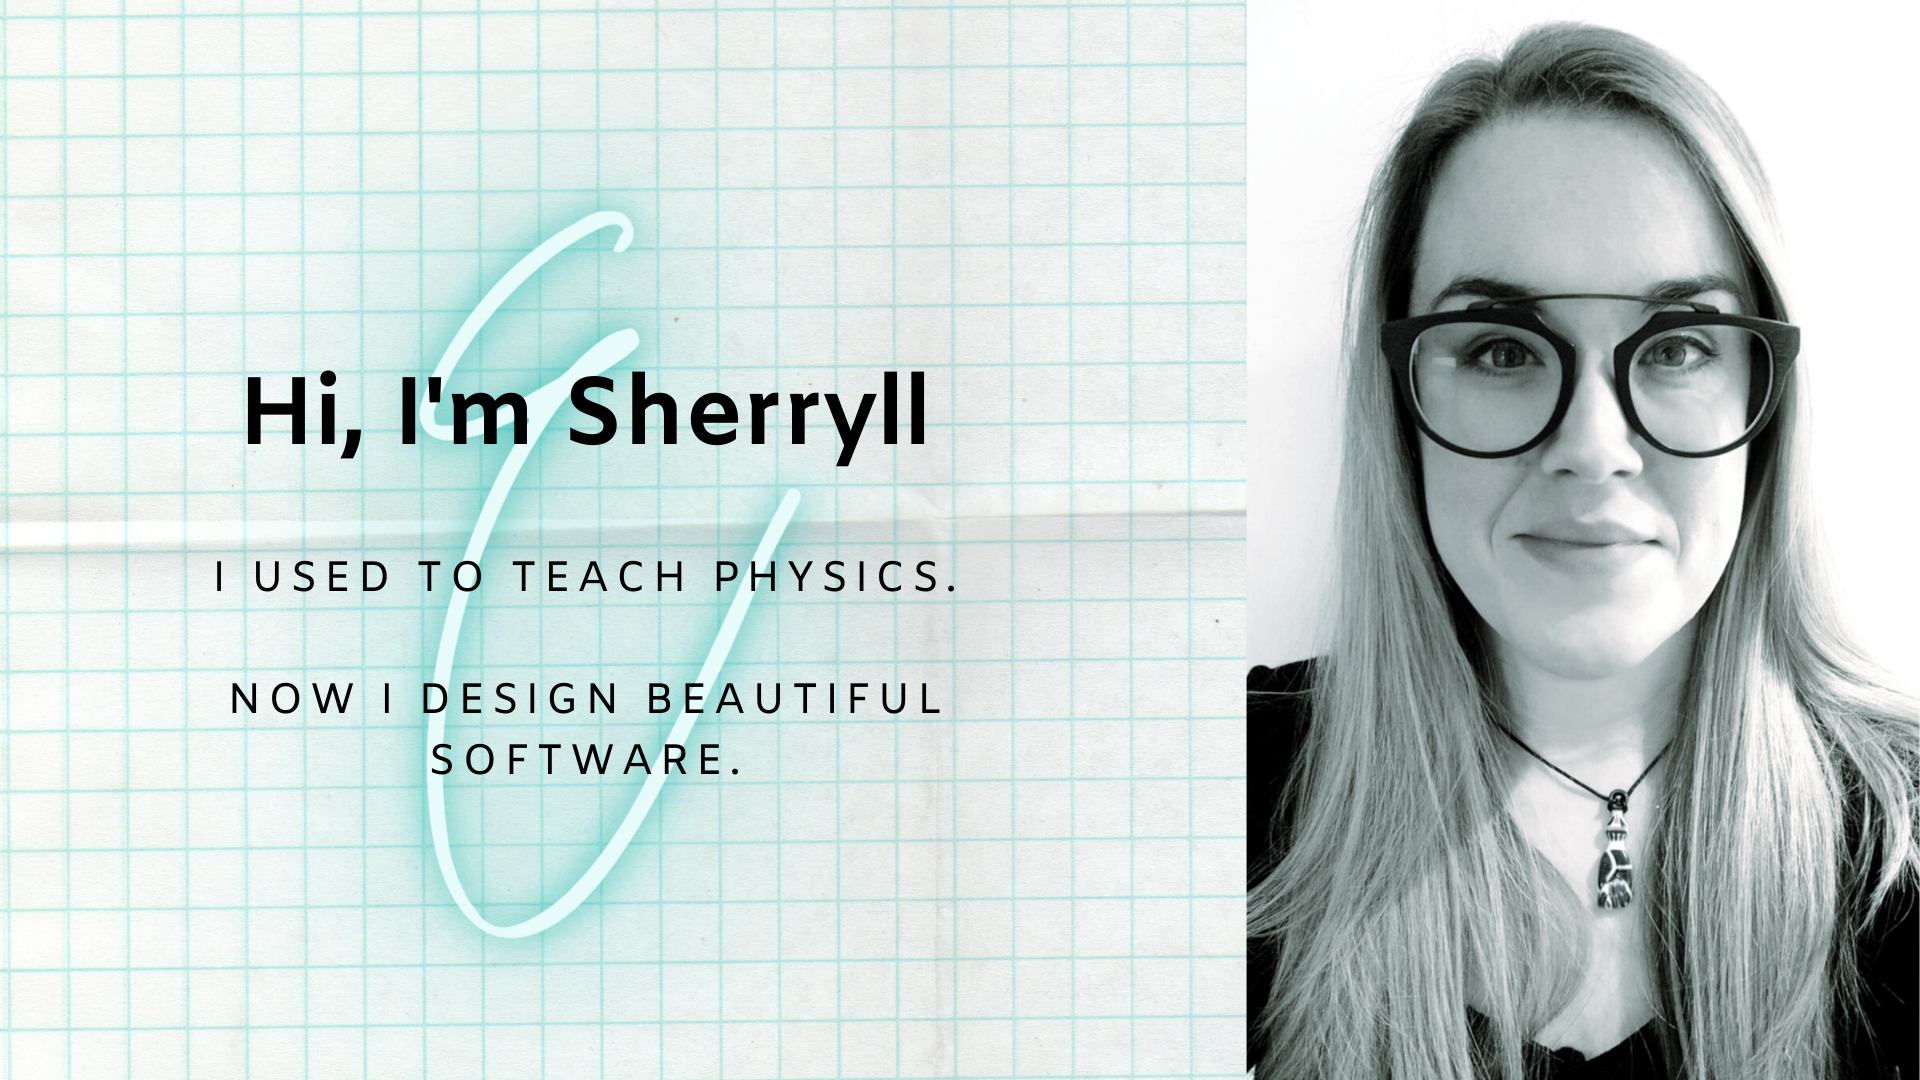
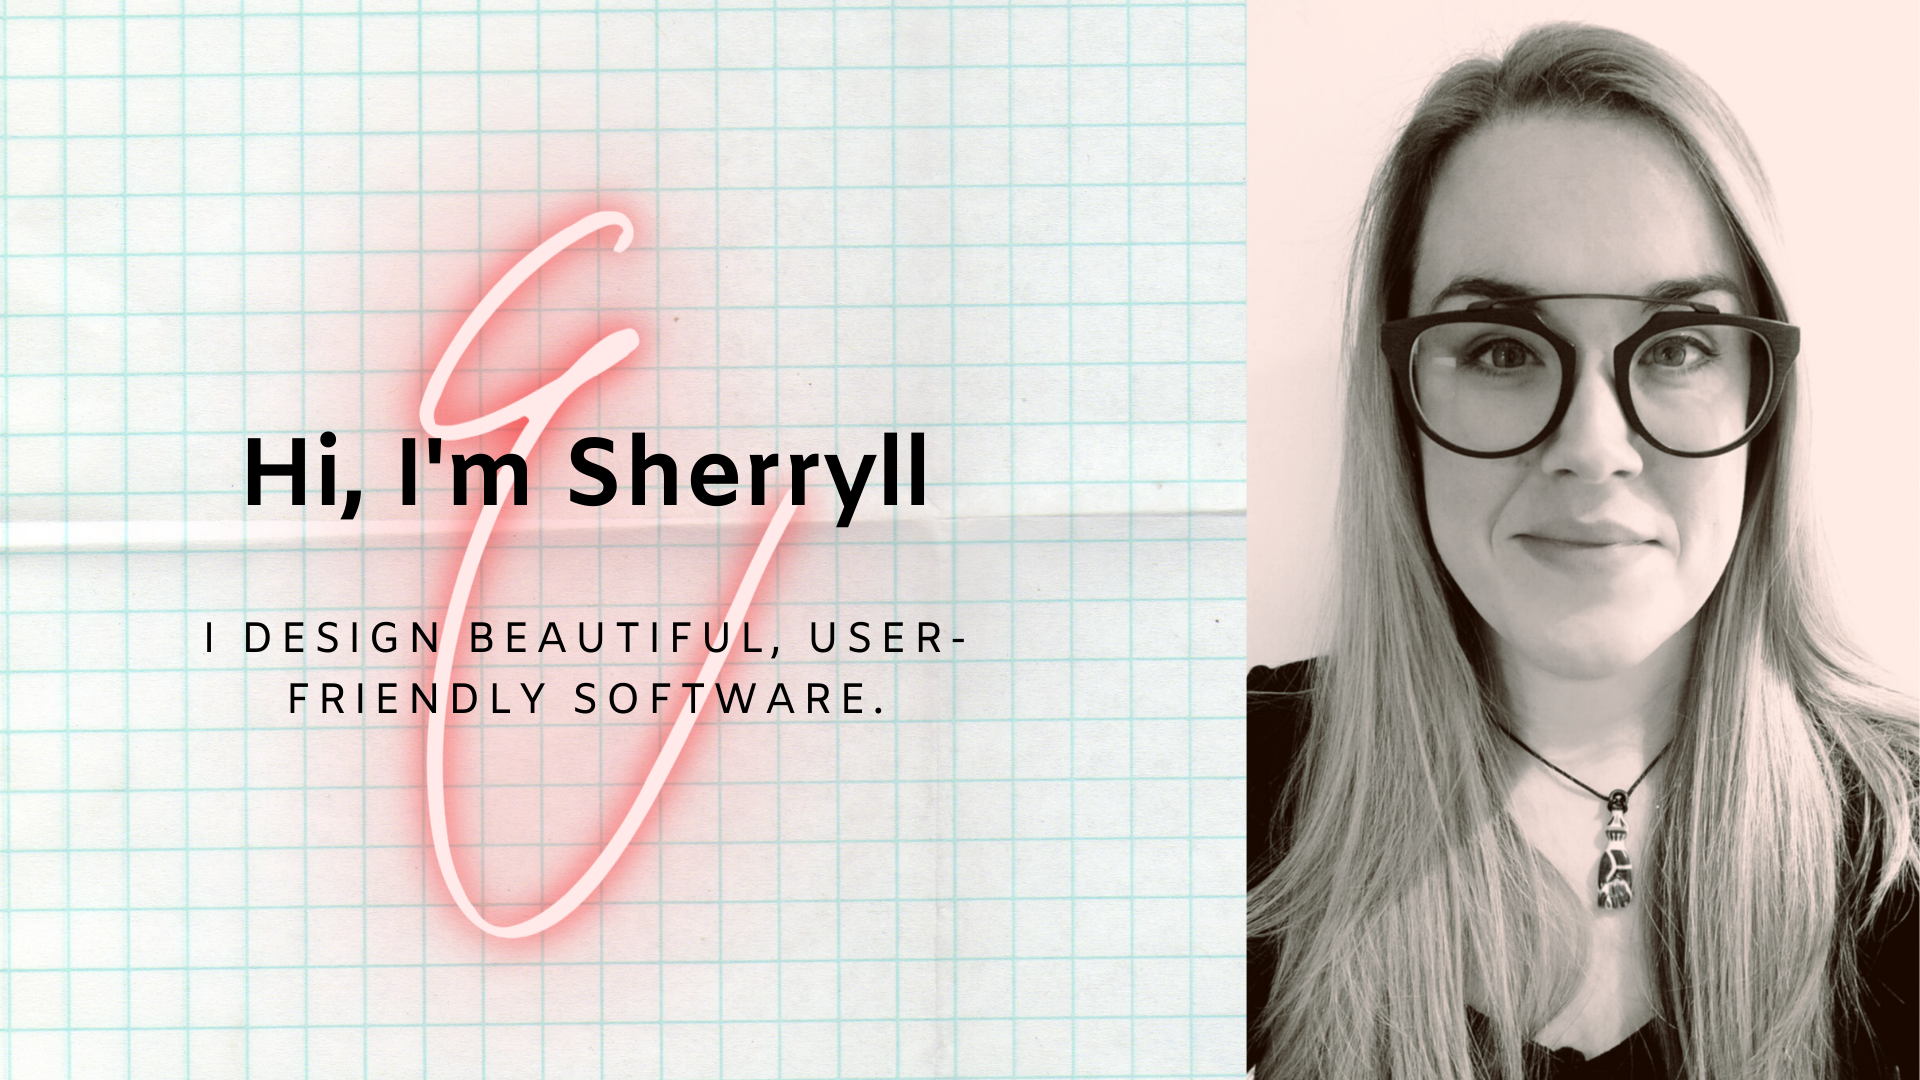
about me added with styling

diff --git a/src/styles/style.scss b/src/styles/style.scss
@@ -1,11 +1,12 @@
 @import url('https://fonts.googleapis.com/css2?family=Source+Sans+Pro:wght@200;300;400;600&display=swap');
 
 :root {
+  --superLight: #cafafe;
+  --dark: #fc4445;
+  --mid: #55bcc9;
+  --light: #3feee6;
+  --extraLight: #97caef;
   --background: #feffff;
-  --dark: #17252A;
-  --mid: #2b7a78;
-  --light: #3aafa9;
-  --extraLight: #def2f1;
   --font: 'Source Sans Pro', sans-serif;
 }
 * {
@@ -23,15 +24,22 @@ body {
   padding: 0;
   font-family: var(--font);
 }
+h1{
+  color: var(--dark);
 
+}
 .hero {
   box-shadow: 0 4px 8px 0 rgba(0,0,0,0.7);
   width: 90vw;
   margin: 40px;
+  border-radius: 10px;
 }
 nav{
   display: flex;
   flex-direction: row;
+  border: solid var(--extraLight) 3px;
+  border-radius: 10px;
+  box-shadow: 0 4px 8px 0 rgba(0,0,0,0.7);
 }
 ul {
   padding:30px;
@@ -43,7 +51,8 @@ ul {
     list-style: none;
   }  
   a{
-    color: var(--light);
+    font-size: 150%;
+    color: var(--extraLight);
     padding:20px;
       text-decoration: none;
     }
@@ -57,6 +66,34 @@ ul {
   background-color:var(--dark);
 }
 #logo {
-  margin: 40px;
+  margin: 5px;
   height: 110px;
+}
+
+#aboutSkills {
+  display:flex;
+  flex-direction: row;
+  justify-content: space-evenly;
+}
+
+.about{
+  position: relative;
+}
+
+.aboutParagraph{
+text-align: justify;
+text-justify: inter-word;
+}
+.splash {
+height: 30vh;
+}
+.aboutText{
+  display: flex;
+  flex-direction: row;
+  justify-content: space-evenly;
+  align-items: center;
+}
+
+.sectionImage {
+  height: 100px;
 }

diff --git a/src/components/About.js b/src/components/About.js
@@ -1,7 +1,24 @@
 import React from 'react'
-
+import splashRight from '../styles/splashRight.png'
+import splashLeft from '../styles/splashLeft.png'
+// import section from '../styles/section.png'
 const About = () => {
-  return <h1> this is About </h1>
+  return <main className="about">
+
+    <h1> About Me </h1>
+    <div className="aboutText">
+      <img className="splash" src={splashLeft}></img>
+      {/* <img className="sectionImage" src={section}></img> */}
+
+      <p className="aboutParagraph">
+        For the 15 years or so (read the glorious era of my 20s where my knees didn’t complain)
+      I was teaching Physics to 11-18 year olds.<br></br><br></br>
+      Now I am a full stack developer with experience in a range of technologies who
+      enjoys making beautifully crafted, user-friendly software.
+      </p>
+      <img className="splash" src={splashRight}></img>
+    </div>
+  </main>
 }
 
 export default About

diff --git a/src/components/Skills.js b/src/components/Skills.js
@@ -1,7 +1,15 @@
 import React from 'react'
 
 const Skills = () => {
-  return <h1> These are skills</h1>
+  return <main className="mainSkills">
+    <h1>Skills</h1>
+    <p>blah blah blahblah blah blahblah blah blahblah blah blahblah blah blahblah blah blah
+    blah blah blahblah blah blahblah blah blahblah blah blahblah blah blah
+    blah blah blahblah blah blahblah blah blahblah blah blah 
+    blah blah blahblah blah blahblah blah blahblah blah blahblah blah blahblah blah blah
+    blah blah blahblah blah blahblah blah blahblah blah blah
+    </p>
+  </main>
 }
 
 export default Skills

diff --git a/src/components/Hero.js b/src/components/Hero.js
@@ -1,10 +1,13 @@
 import React from 'react'
 import hero from '../styles/hero.png'
+import Zoom from 'react-reveal'
 
 
 const Hero = () => {
   return <main>
-    <img className="hero" src={hero}></img>
+    <Zoom delay={4000}>
+      <img className="hero" src={hero}></img>
+    </Zoom>
   </main>
 }
 

diff --git a/src/App.js b/src/App.js
@@ -1,4 +1,5 @@
 import React from 'react'
+
 import { BrowserRouter, Switch, Route } from 'react-router-dom'
 import NavBar from './components/NavBar'
 import Hero from './components/Hero'

diff --git a/src/components/Navbar.js b/src/components/Navbar.js
@@ -19,6 +19,4 @@ const NavBar = () => {
   </main>
 }
 
-// ! withRouter will give us the route props we have on every route,
-// ! e.g. match, location, history
 export default NavBar

diff --git a/src/components/Contact.js b/src/components/Contact.js
@@ -1,7 +1,7 @@
 import React from 'react'
 
 const Contact = () => {
-  return<h1>contact details</h1>
+  return <h1>contact details</h1>
 }
 
 export default Contact
